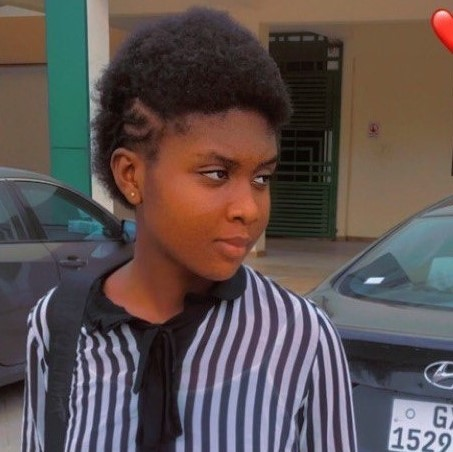
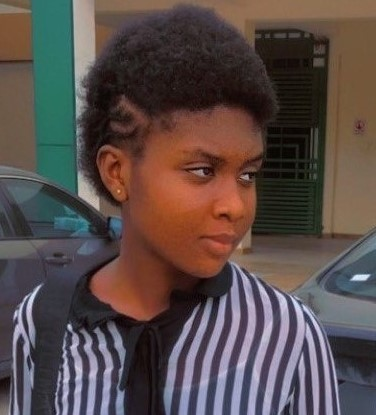
small changes

diff --git a/src/components/About.jsx b/src/components/About.jsx
@@ -8,14 +8,14 @@ const About = () => {
     <div id = 'about' className='flex flex-col'>
     <div className='flex p-24 space-x-20'>
       <div className='w-2/5 relative'>
-        <div className='absolute -top-5 left-32 w-4/5  h-full'>
-          <div className='w-full h-full bg-piccol border-8 border-bocol' style={{ height: '115%' }}></div>
+        <div className='absolute -top-5 left-20 w-4/5  h-full'>
+          <div className='w-full h-full bg-piccol border-8 border-bocol ' style={{ height: '110%' }}></div>
         </div>
-        <img src={img} alt="Profile" className='w-full relative z-10' />
+        <img src={img} alt="Profile" className='w-4/5 relative z-10 ' />
       </div>
       <div className='w-3/5'>
         <h1 className='text-xl font-bold'>About Me</h1>
-        <p className='pt-10 leading-6'>
+        <p className='pt-10 leading-8'>
           Hi there! I'm Richelle Abakah Asmah, a passionate Frontend Developer dedicated to crafting beautiful and functional web experiences.
           With a keen eye for detail and a strong foundation in modern web technologies, I strive to bring innovative designs to life while ensuring an exceptional user experience.
           My journey in web development is fueled by a love for continuous learning and a commitment to staying at the forefront of industry trends. Let's create something amazing together!

diff --git a/src/components/Contact.jsx b/src/components/Contact.jsx
@@ -32,7 +32,7 @@ export const ContactUs = () => {
           <form ref={form} onSubmit={sendEmail}>
             <Input type='text' text='Full Name' name='user_name' />
             <Input type='email' text='Email' name='user_email' />
-            <textarea name='message' placeholder='Message' className='border-2 outline-none p-10 w-full mt-10'></textarea>
+            <textarea name='message' placeholder='Message' className='border-2 resize-none outline-none p-10 w-full mt-10'></textarea>
             <input value='Send' type='submit' className='w-32 h-10 bg-custom-gradient rounded-md  mt-5 text-white hover:bg-hov hover:transition duration-300 ease-in-out' />
           </form>
         </div>

diff --git a/src/components/Back.jsx b/src/components/Back.jsx
@@ -1,9 +1,10 @@
 import React from 'react';
+import { FiArrowUp } from "react-icons/fi";
 
 const Back = ({ scrollToRef, topRef }) => {
   return (
-    <button onClick={() => scrollToRef(topRef)} className='p-5 rounded-full fixed bottom-5 right-5 text-white bg-custom-gradient'>
-       Top
+    <button onClick={() => scrollToRef(topRef)} className='p-2 rounded-full fixed bottom-5 right-5 text-white bg-custom-gradient'>
+      <FiArrowUp className='w-10 h-10'/>
     </button>
   );
 };
